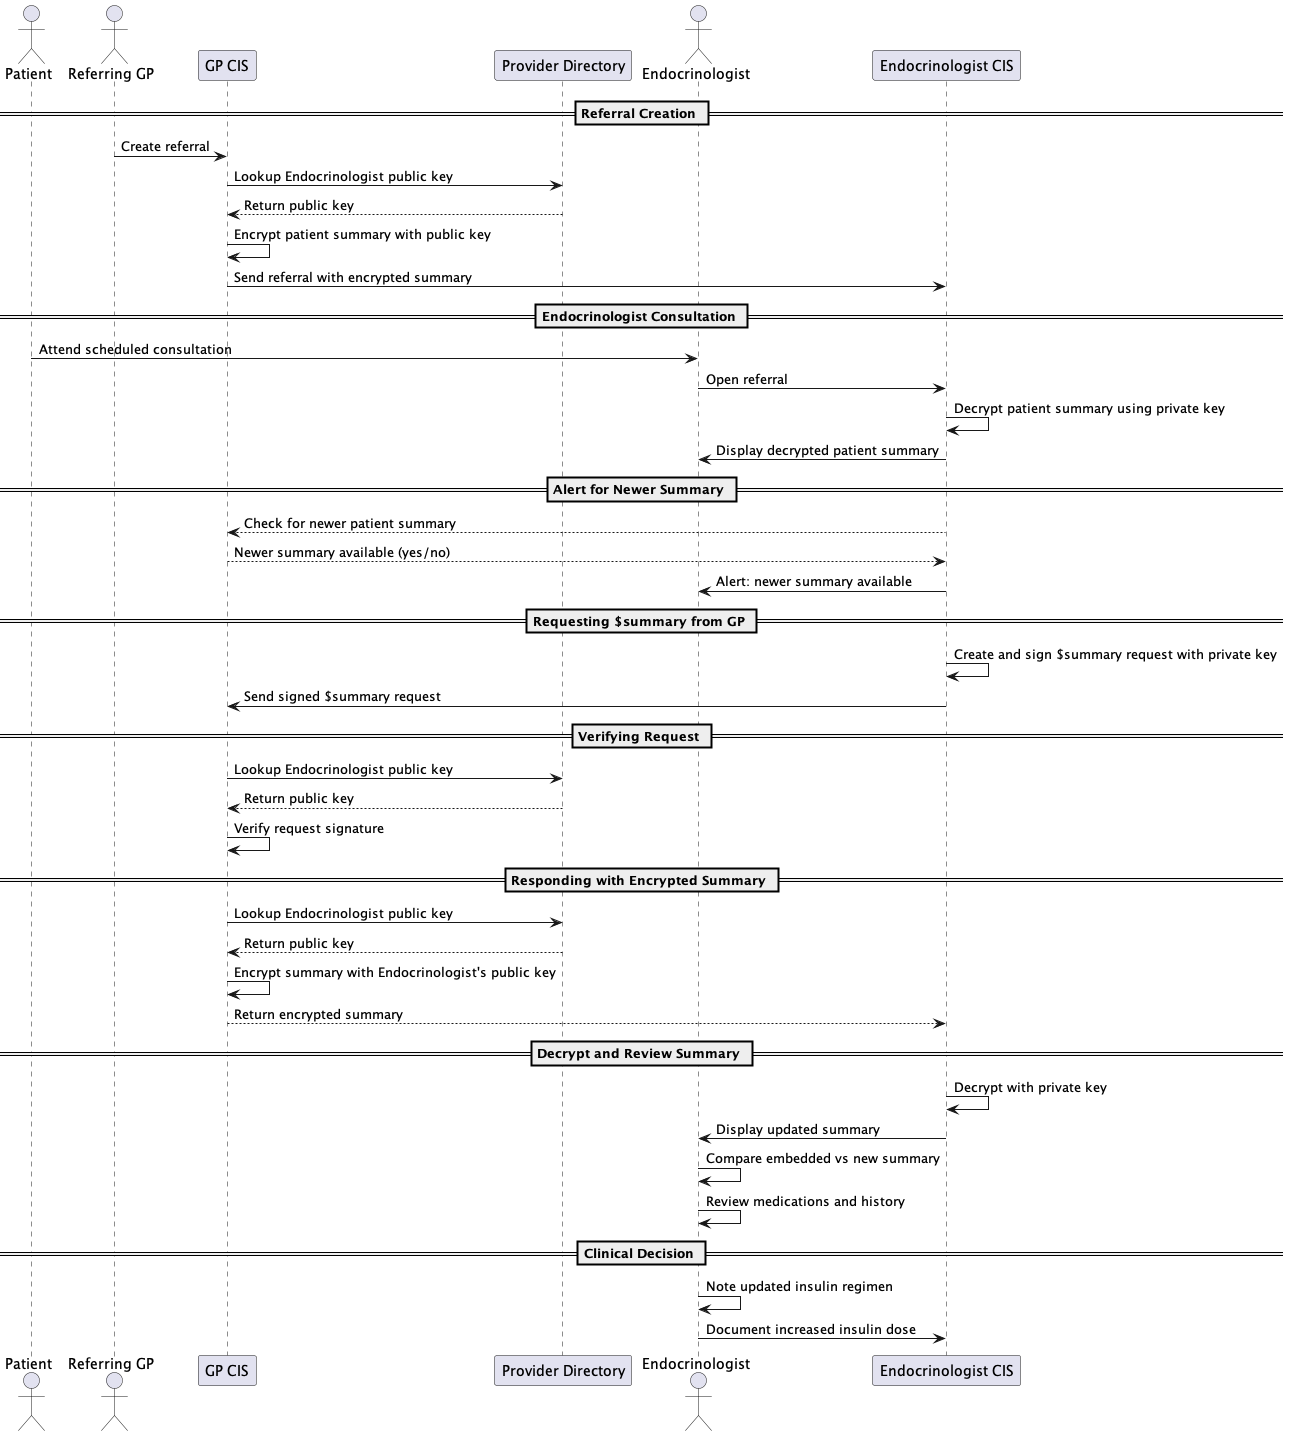
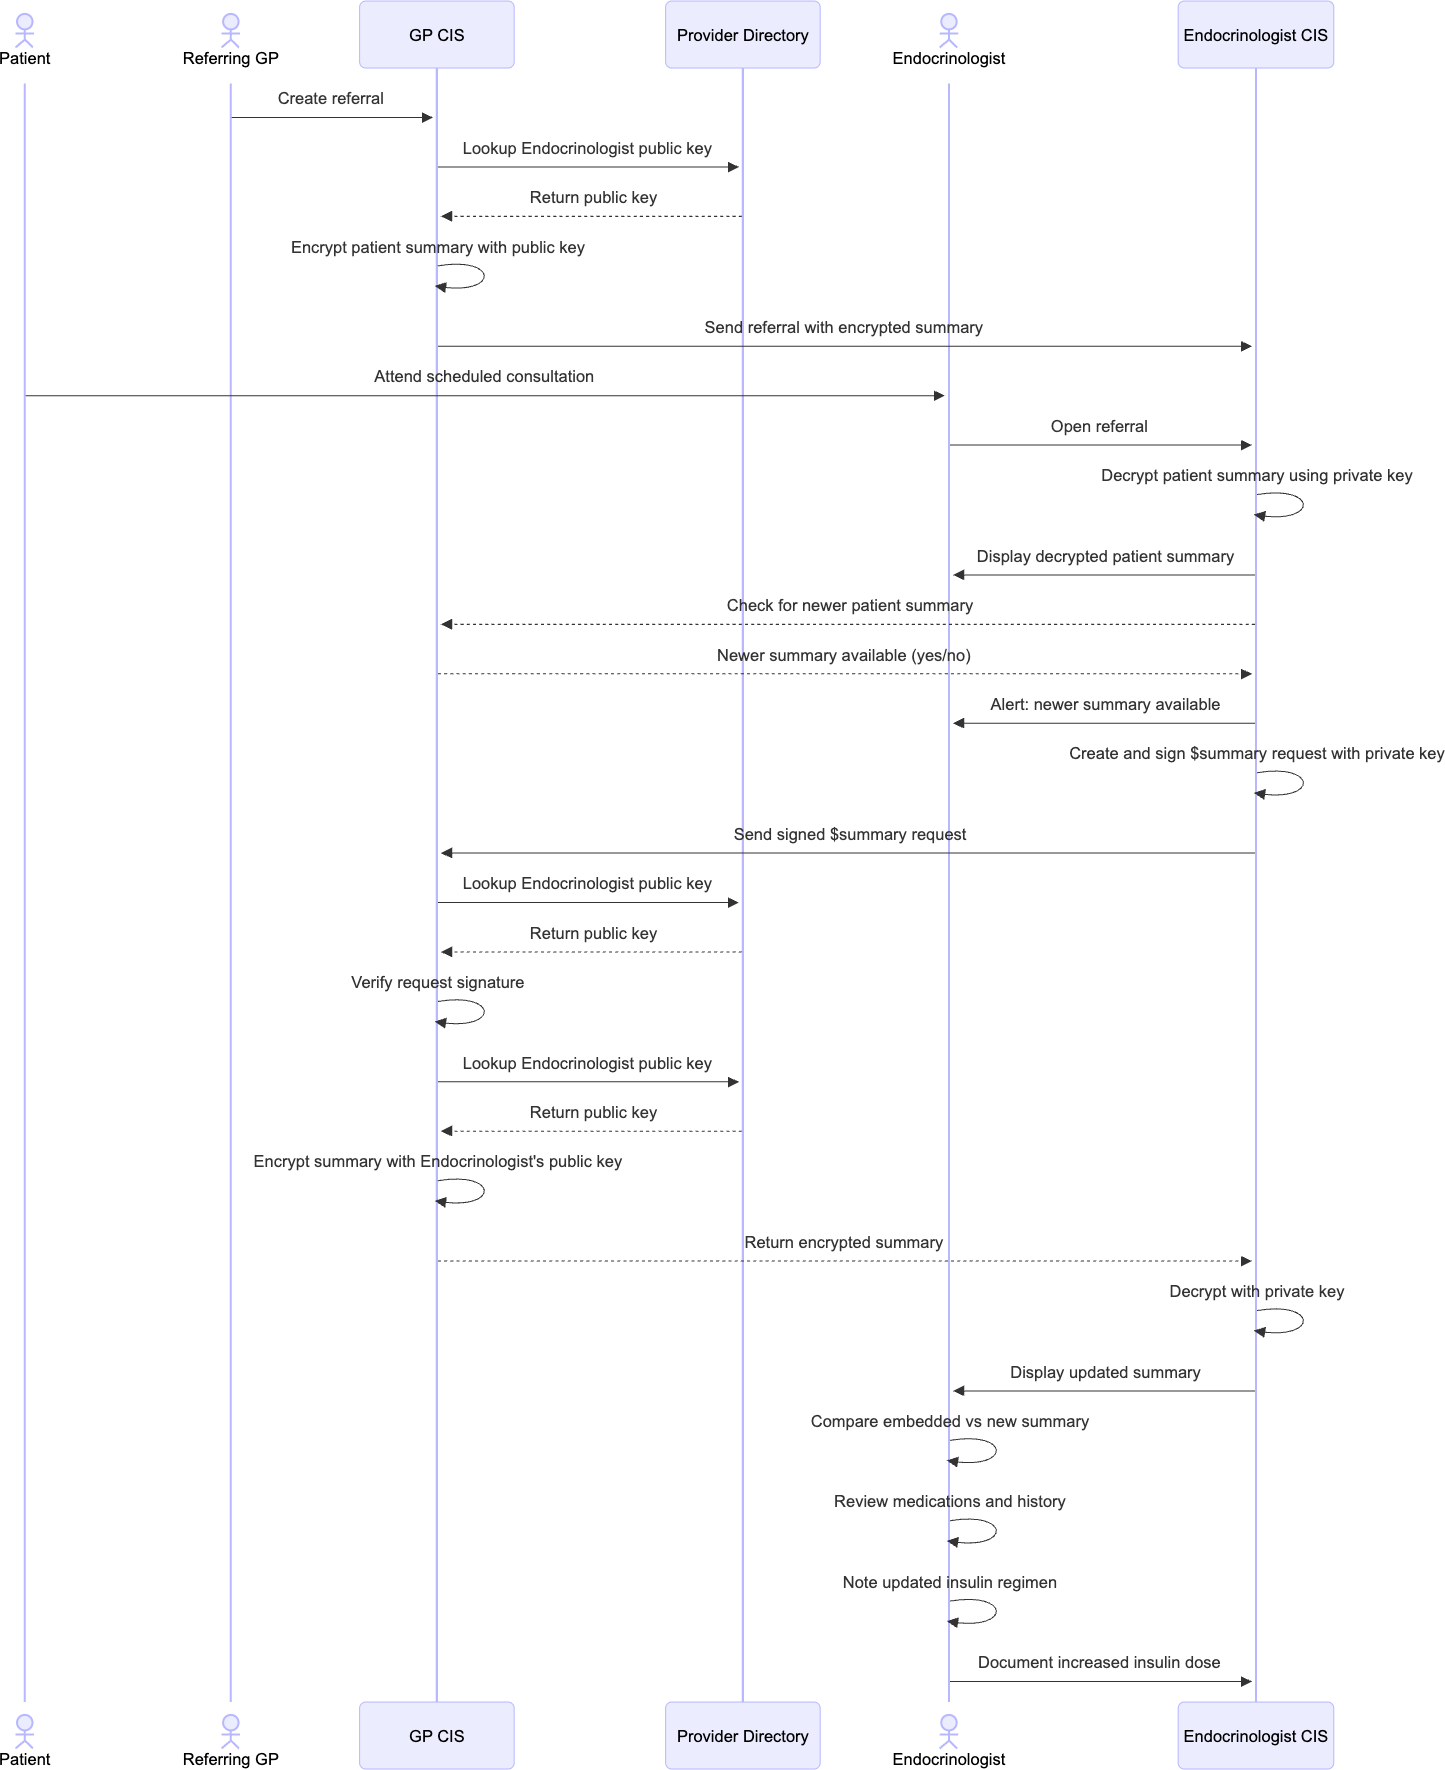
Migrate the use case diagrams to mermaid (#30)
This is so they match the other sequence diagrams for the generation and access page which are also mermaid syntax
Removed the emergency use case page as it was blank and we don't use it at the moment anyway.

diff --git a/input/pagecontent/uc-referral.md b/input/pagecontent/uc-referral.md
@@ -53,7 +53,7 @@ This use case demonstrates use of patient summary during step 4. Endocrinologist
 
 #### Sequence Diagram
 <div> 
-  <img src="uc-referral-seq.png" alt="Sequence Diagram" style="width:80%"/>
+  <img src="uc-referral-seq.png" alt="Sequence Diagram" style="width:100%"/>
 </div>
 *Figure 2: Sequence diagram showing access to embedded and updated patient summaries, with secure retrieval using public key cryptography*
 <br/>

diff --git a/input/pagecontent/uc-interstate.md b/input/pagecontent/uc-interstate.md
@@ -52,7 +52,7 @@ This use case demonstrates use of patient summary during step 5. Patient Summary
 
 #### Sequence Diagram
 <div> 
-  <img src="uc-interstate-seq.png" alt="Sequence Diagram" style="width:80%"/>
+  <img src="uc-interstate-seq.png" alt="Sequence Diagram" style="width:100%"/>
 </div>
 *Figure 2: Sequence diagram showing access to a patient summary via Smart Health Link*
 <br/>
